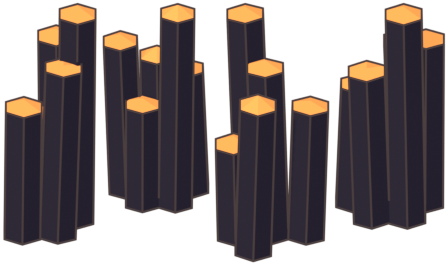
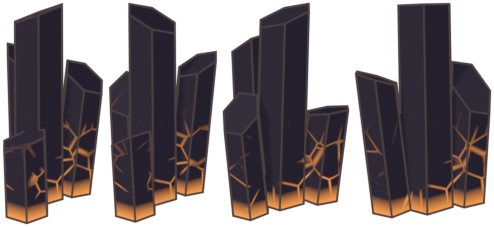
feat(obstacles): obsidian lava cracks and void rune monoliths
OBSIDIAN_PILLAR: only the top caps were orange, so the glow overlay (which
keys orange pixels) pulsed on the caps and was barely visible. Re-rendered as
3-4 thick basalt columns with slanted broken tops; a procedural Voronoi crack
mask (object space) glows lava orange on the lower part plus a molten band at
the base, upper columns stay clean obsidian.

WALL (VOID map): the dungeon pillar/column/statue/obelisk masonry did not fit
the floating cosmic island. Replaced with a rune plinth (glowing violet ring)
under a floating dark-violet crystal slab with 2-3 orbiting shards and violet
veins. Renamed to 虛空石碑.

Glow animation keys are now per type (OBSTACLE_SPRITE.GLOW_KEYS EMBER/VIOLET,
ANIM.*.key); WALL gets a violet glow pulse. Other obstacle atlases are byte
identical after repacking.

diff --git a/constants.ts b/constants.ts
@@ -828,22 +828,29 @@ export const OBSTACLE_SPRITE = {
    * 障礙物動態（VISUAL_ROADMAP O3）：烘成循環影格表，執行期仍只有一次 drawImage；每格相位依 q,r 雜湊錯開。
    *  - sway：以底部為軸斜切，頂端位移 amp（canvas 單位）
    *  - glint：一顆星芒沿最高晶柱往上滑，週期前 visible 比例可見（靜態本體＋星芒疊層，執行期只改位置與 alpha）
-   *  - glow：從精靈取出橘色發光部位（GLOW_KEY），加法疊上並帶模糊光暈，亮度 0..amp 脈動（靜態本體＋發光疊層）
+   *  - glow：從精靈取出發光部位（GLOW_KEYS[key]：熔岩橘／虛空紫），加法疊上並帶模糊光暈，亮度 0..amp 脈動（靜態本體＋發光疊層）
    *  只有 sway 烘成整張影格表；glint／glow 若也烘成影格表，熔岩圖 p99 實測多 3～5 ms（每根柱子各取一張大圖）。
    */
   ANIM: {
     TREE: { kind: 'sway', frames: 12, period: 4.5, amp: 3 },
     ICE_CRYSTAL: { kind: 'glint', frames: 16, period: 4, amp: 0.9, visible: 0.4, radius: 6 },
-    OBSIDIAN_PILLAR: { kind: 'glow', frames: 12, period: 3, amp: 0.75, blurPx: 3 },
+    OBSIDIAN_PILLAR: { kind: 'glow', frames: 12, period: 3, amp: 0.75, blurPx: 3, key: 'EMBER' },
+    WALL: { kind: 'glow', frames: 12, period: 4, amp: 0.7, blurPx: 3, key: 'VIOLET' },
   } as Readonly<Record<string, ObstacleAnimConfig>>,
-  /** glow 取色：r ≥ minR、b ≤ maxB、r ≥ g × ratio 的像素算發光部位 */
-  GLOW_KEY: { minR: 170, maxB: 120, ratio: 1.25 },
+  /**
+   * glow 取色：主通道（r 或 b）≥ min、主通道 ≥ g × ratio、另一個通道（b 或 r）≤ maxOther 的像素算發光部位。
+   * EMBER＝黑曜柱岩漿裂縫（render_obstacle.py OBSIDIAN_GLOW），VIOLET＝虛空石碑脈絡與符文環（VOID_GLOW）。
+   */
+  GLOW_KEYS: {
+    EMBER: { main: 'r', min: 170, ratio: 1.25, maxOther: 120 },
+    VIOLET: { main: 'b', min: 200, ratio: 1.3, maxOther: 255 },
+  } as Readonly<Record<'EMBER' | 'VIOLET', { main: 'r' | 'b'; min: number; ratio: number; maxOther: number }>>,
 } as const;
 
 export type ObstacleAnimConfig =
   | { kind: 'sway'; frames: number; period: number; amp: number }
   | { kind: 'glint'; frames: number; period: number; amp: number; visible: number; radius: number }
-  | { kind: 'glow'; frames: number; period: number; amp: number; blurPx: number };
+  | { kind: 'glow'; frames: number; period: number; amp: number; blurPx: number; key: 'EMBER' | 'VIOLET' };
 
 export interface TerrainTheme { top: string; sideLight: string; sideDark: string; detail: string; rim: string }
 

diff --git a/engine/renderers/grid/ObstacleSpriteStore.ts b/engine/renderers/grid/ObstacleSpriteStore.ts
@@ -184,7 +184,7 @@ class ObstacleSpriteStoreImpl {
         const s = OBSTACLE_SPRITE.BAKE_SCALE;
         const spriteH = v.ay * k;
         if (anim.kind === 'glow') {
-            const mask = extractGlowMask(img, v);
+            const mask = extractGlowMask(img, v, anim.key);
             const pad = anim.blurPx * 2;
             const w = v.w * k + pad * 2, h = v.h * k + pad * 2;
             const { canvas, ctx } = createCanvas(Math.ceil(w * s), Math.ceil(h * s));
@@ -255,7 +255,7 @@ interface ObstacleOverlaySet {
 }
 
 /** 從精靈取出橘色發光部位（黑曜柱頂）：其餘像素透明。只在烘焙時讀一次像素 */
-function extractGlowMask(img: HTMLImageElement, v: ObstacleVariantDef): HTMLCanvasElement | null {
+function extractGlowMask(img: HTMLImageElement, v: ObstacleVariantDef, key: 'EMBER' | 'VIOLET'): HTMLCanvasElement | null {
     const { canvas, ctx } = createCanvas(v.w, v.h);
     ctx.drawImage(img, v.x, v.y, v.w, v.h, 0, 0, v.w, v.h);
     let data: ImageData;
@@ -264,10 +264,13 @@ function extractGlowMask(img: HTMLImageElement, v: ObstacleVariantDef): HTMLCanv
     } catch {
         return null;
     }
-    const K = OBSTACLE_SPRITE.GLOW_KEY;
+    const K = OBSTACLE_SPRITE.GLOW_KEYS[key];
+    const mainOff = K.main === 'r' ? 0 : 2;
+    const otherOff = K.main === 'r' ? 2 : 0;
     const d = data.data;
     for (let i = 0; i < d.length; i += 4) {
-        const keep = d[i] >= K.minR && d[i + 2] <= K.maxB && d[i] >= d[i + 1] * K.ratio;
+        const m = d[i + mainOff];
+        const keep = m >= K.min && m >= d[i + 1] * K.ratio && d[i + otherOff] <= K.maxOther;
         if (!keep) d[i + 3] = 0;
     }
     ctx.putImageData(data, 0, 0);

diff --git a/data/obstacles.ts b/data/obstacles.ts
@@ -4,7 +4,7 @@ import { ObstacleDef } from "../types";
 export const OBSTACLE_DB: Record<string, ObstacleDef> = {
     'WALL': {
         id: 'WALL',
-        name: '石牆',
+        name: '虛空石碑',
         blocksMovement: true,
         blocksVision: true,
         blocksFlying: false // Flyers can pass

diff --git a/tools/assets/blender/render_obstacle.py b/tools/assets/blender/render_obstacle.py
@@ -37,11 +37,9 @@ TYPES = {
         {'file': f'{FOREST}/Tree_3_A_Color1.gltf', 'height': 140},
         {'file': f'{FOREST}/Tree_4_A_Color1.gltf', 'height': 112},
     ]},
-    'WALL': {'fit': 0.78, 'tint': (0.78, 0.82, 1.05), 'variants': [
-        {'file': f'{DUNGEON}/pillar.gltf.glb', 'height': 96, 'xy': 1.5},
-        {'file': f'{DUNGEON}/column.gltf.glb', 'height': 92},
-        {'file': f'{KENNEY}/statue_column.glb', 'height': 96, 'xy': 1.4, 'override': (0.33, 0.35, 0.47)},
-        {'file': f'{KENNEY}/statue_obelisk.glb', 'height': 108, 'xy': 1.2, 'override': (0.33, 0.35, 0.47)},
+    # 虛空石碑（2026-10-19 取代地牢石柱／方尖碑組：磚石造型與漂浮的宇宙島不搭）：符文基座＋懸浮晶碑＋環繞碎晶
+    'WALL': {'fit': 0.80, 'variants': [
+        {'prisms': 'void_monolith', 'seed': s, 'height': h} for s, h in ((31, 104), (32, 96), (33, 112), (34, 100))
     ]},
     'SANDSTONE': {'fit': 0.86, 'override': (0.86, 0.60, 0.36), 'variants': [
         {'file': f'{KENNEY}/rock_tallA.glb', 'height': 72},
@@ -52,7 +50,8 @@ TYPES = {
     'ICE_CRYSTAL': {'fit': 0.80, 'variants': [
         {'prisms': 'ice', 'seed': s, 'height': h} for s, h in ((1, 72), (2, 64), (3, 80), (4, 60))
     ]},
-    'OBSIDIAN_PILLAR': {'fit': 0.76, 'variants': [
+    # 黑曜柱（2026-10-19 重新設計：3～4 根粗柱、斜切斷頂，側面岩漿裂縫＋底部熔岩光帶；舊版只有頂面橘色、發光看不出來）
+    'OBSIDIAN_PILLAR': {'fit': 0.78, 'variants': [
         {'prisms': 'obsidian', 'seed': s, 'height': h} for s, h in ((11, 108), (12, 96), (13, 116), (14, 100))
     ]},
     # 不阻擋的地表裝飾（VISUAL_ROADMAP T2）：小尺寸、細描邊；TerrainLoopAtlas／bakeBlock 依格子雜湊擺放
@@ -84,7 +83,9 @@ TYPES = {
 ICE_RGB = (0.62, 0.86, 1.0)
 ICE_GLOW = (0.55, 0.85, 1.0)
 OBSIDIAN_RGB = (0.035, 0.028, 0.045)  # linear; Standard view transform lifts it to ~#2a2430
-OBSIDIAN_GLOW = (1.0, 0.36, 0.08)
+OBSIDIAN_GLOW = (1.0, 0.36, 0.08)     # sRGB ~ (255,161,79): engine OBSTACLE_SPRITE.GLOW_KEYS.EMBER picks it up
+VOID_RGB = (0.055, 0.04, 0.095)
+VOID_GLOW = (0.5, 0.28, 1.0)          # sRGB ~ (188,145,255): GLOW_KEYS.VIOLET
 
 
 def reset():
@@ -177,6 +178,101 @@ def hex_prism(bm, x, y, r, h, tip, tilt_x, tilt_y, yaw):
     bmesh.ops.transform(bm, matrix=m, verts=allv)
 
 
+def basalt_column(bm, x, y, r, h, slant, slant_dir, tilt_x, tilt_y, z0=0.0, tip=0.0, squash=1.0):
+    """Hex column, base at z0. slant tilts the flat top cap (broken basalt); tip > 0 turns the top into a point instead."""
+    geom = bmesh.ops.create_cone(bm, cap_ends=True, segments=6, radius1=r, radius2=r, depth=h)
+    verts = geom['verts']
+    bmesh.ops.translate(bm, verts=verts, vec=(0, 0, h / 2))
+    top = [v for v in verts if v.co.z > h * 0.99]
+    allv = list(verts)
+    if tip > 0:
+        centre = bm.verts.new((0, 0, h + tip))
+        faces = [f for f in bm.faces if all(v in top for v in f.verts)]
+        ring = sorted(top, key=lambda v: math.atan2(v.co.y, v.co.x))
+        bmesh.ops.delete(bm, geom=faces, context='FACES_ONLY')
+        for i in range(len(ring)):
+            bm.faces.new((ring[i], ring[(i + 1) % len(ring)], centre))
+        allv.append(centre)
+    else:
+        dx, dy = math.cos(slant_dir), math.sin(slant_dir)
+        for v in top:
+            v.co.z += (v.co.x * dx + v.co.y * dy) / max(r, 1e-6) * slant
+    for v in allv:
+        v.co.x *= squash
+    from mathutils import Matrix
+    m = Matrix.Translation((x, y, z0)) @ Matrix.Rotation(tilt_x, 4, 'X') @ Matrix.Rotation(tilt_y, 4, 'Y')
+    bmesh.ops.transform(bm, matrix=m, verts=allv)
+
+
+def glow_mask_material(mat, base_rgb, glow_rgb, kind):
+    """toon() body, then mix in glow_rgb where a procedural mask (object space) is 1: lava cracks / void veins."""
+    toon(mat, base_rgb=base_rgb)
+    nt = mat.node_tree
+    emit = next(n for n in nt.nodes if n.type == 'EMISSION')
+    link = emit.inputs['Color'].links[0]
+    color = link.from_socket
+    nt.links.remove(link)
+
+    def node(t, **kw):
+        n = nt.nodes.new(t)
+        for k, v in kw.items():
+            setattr(n, k, v)
+        return n
+
+    def map_range(src, a, b, c, d):
+        m = node('ShaderNodeMapRange', clamp=True)
+        nt.links.new(src, m.inputs['Value'])
+        m.inputs['From Min'].default_value, m.inputs['From Max'].default_value = a, b
+        m.inputs['To Min'].default_value, m.inputs['To Max'].default_value = c, d
+        return m.outputs['Result']
+
+    def math_op(op, x, y):
+        m = node('ShaderNodeMath', operation=op)
+        nt.links.new(x, m.inputs[0])
+        nt.links.new(y, m.inputs[1])
+        return m.outputs['Value']
+
+    tc = node('ShaderNodeTexCoord')
+    sep = node('ShaderNodeSeparateXYZ')
+    nt.links.new(tc.outputs['Object'], sep.inputs['Vector'])
+    vor = node('ShaderNodeTexVoronoi', voronoi_dimensions='3D', feature='DISTANCE_TO_EDGE')
+    nt.links.new(tc.outputs['Object'], vor.inputs['Vector'])
+    noise = node('ShaderNodeTexNoise')
+    nt.links.new(tc.outputs['Object'], noise.inputs['Vector'])
+    if kind == 'obsidian':
+        vor.inputs['Scale'].default_value = 3.0
+        noise.inputs['Scale'].default_value = 1.6
+        crack = map_range(vor.outputs['Distance'], 0.0, 0.045, 1.0, 0.0)
+        patch = map_range(noise.outputs['Fac'], 0.45, 0.55, 0.0, 1.0)
+        fall = map_range(sep.outputs['Z'], 0.25, 1.1, 1.0, 0.0)   # cracks only in the lower part; upper column stays clean
+        veins = math_op('MULTIPLY', math_op('MULTIPLY', crack, patch), fall)
+        band = map_range(sep.outputs['Z'], 0.0, 0.2, 1.0, 0.0)
+        mask = math_op('MAXIMUM', veins, band)
+    else:
+        vor.inputs['Scale'].default_value = 4.5
+        noise.inputs['Scale'].default_value = 2.2
+        crack = map_range(vor.outputs['Distance'], 0.0, 0.03, 1.0, 0.0)
+        patch = map_range(noise.outputs['Fac'], 0.52, 0.6, 0.0, 1.0)
+        above = map_range(sep.outputs['Z'], 0.1, 0.14, 0.0, 1.0)   # veins only on the floating crystals
+        veins = math_op('MULTIPLY', math_op('MULTIPLY', crack, patch), above)
+        comb = node('ShaderNodeCombineXYZ')
+        nt.links.new(sep.outputs['X'], comb.inputs['X'])
+        nt.links.new(sep.outputs['Y'], comb.inputs['Y'])
+        ln = node('ShaderNodeVectorMath', operation='LENGTH')
+        nt.links.new(comb.outputs['Vector'], ln.inputs[0])
+        d = ln.outputs['Value']
+        ring = math_op('MULTIPLY', map_range(d, 0.28, 0.31, 0.0, 1.0), map_range(d, 0.35, 0.38, 1.0, 0.0))
+        on_plinth_top = math_op('MULTIPLY', map_range(sep.outputs['Z'], 0.05, 0.07, 0.0, 1.0), map_range(sep.outputs['Z'], 0.09, 0.11, 1.0, 0.0))
+        mask = math_op('MAXIMUM', veins, math_op('MULTIPLY', ring, on_plinth_top))
+    mix = nt.nodes.new('ShaderNodeMix')
+    mix.data_type = 'RGBA'
+    mix.blend_type = 'MIX'
+    nt.links.new(mask, mix.inputs['Factor'])
+    nt.links.new(color, mix.inputs['A'])
+    mix.inputs['B'].default_value = (*glow_rgb, 1)
+    nt.links.new(mix.outputs['Result'], emit.inputs['Color'])
+
+
 def build_prisms(kind, seed):
     rnd = random.Random(seed)
     mesh = bpy.data.meshes.new(f'{kind}_{seed}')
@@ -196,13 +292,28 @@ def build_prisms(kind, seed):
             d = 0 if i == 0 else rnd.uniform(0.25, 0.45)
             hex_prism(bm, math.cos(a) * d, math.sin(a) * d, rnd.uniform(0.12, 0.2), rnd.uniform(0.5, 1.0), rnd.uniform(0.18, 0.3),
                       math.sin(a) * rnd.uniform(0.2, 0.6) * -1, math.cos(a) * rnd.uniform(0.2, 0.6), rnd.random())
+    elif kind == 'void_monolith':
+        # rune plinth on the ground + one floating crystal slab + 2..3 orbiting shards
+        basalt_column(bm, 0, 0, 0.5, 0.08, 0, 0, 0, 0)
+        gap = rnd.uniform(0.36, 0.44)
+        hgt = rnd.uniform(1.25, 1.55)
+        basalt_column(bm, 0, 0, rnd.uniform(0.2, 0.24), hgt, 0, 0, rnd.uniform(-0.06, 0.06), rnd.uniform(-0.06, 0.06),
+                      z0=0.08 + gap, tip=rnd.uniform(0.3, 0.42), squash=0.78)
+        for i in range(rnd.randint(2, 3)):
+            a = i / 3 * math.tau + rnd.uniform(-0.5, 0.5)
+            d = rnd.uniform(0.36, 0.44)
+            basalt_column(bm, math.cos(a) * d, math.sin(a) * d, rnd.uniform(0.05, 0.08), rnd.uniform(0.16, 0.26), 0, 0,
+                          rnd.uniform(-0.7, 0.7), rnd.uniform(-0.7, 0.7), z0=0.08 + gap + rnd.uniform(0.2, hgt * 0.8), tip=0.08)
     else:
-        # basalt column group: 5..7 upright hex columns of stepped heights, flat-ish tops
-        cols = [(0, 0)] + [(math.cos(i / 6 * math.tau) * 0.36, math.sin(i / 6 * math.tau) * 0.36) for i in range(6)]
-        rnd.shuffle(cols)
-        for i, (x, y) in enumerate(cols[:rnd.randint(5, 7)]):
-            h = (2.4 if i == 0 else rnd.uniform(1.0, 2.1))
-            hex_prism(bm, x, y, 0.21, h, rnd.uniform(0.02, 0.12), rnd.uniform(-0.04, 0.04), rnd.uniform(-0.04, 0.04), 0)
+        # obsidian: 3..4 thick basalt columns, slanted broken tops, slight outward lean
+        n = rnd.randint(3, 4)
+        basalt_column(bm, 0, 0, 0.3, 2.3, rnd.uniform(0.12, 0.22), rnd.random() * math.tau, rnd.uniform(-0.03, 0.03), rnd.uniform(-0.03, 0.03))
+        for i in range(n - 1):
+            a = i / (n - 1) * math.tau + rnd.uniform(-0.4, 0.4)
+            d = rnd.uniform(0.36, 0.44)
+            lean = rnd.uniform(0.05, 0.12)
+            basalt_column(bm, math.cos(a) * d, math.sin(a) * d, rnd.uniform(0.2, 0.27), rnd.uniform(0.9, 1.7),
+                          rnd.uniform(0.1, 0.25), rnd.random() * math.tau, -math.sin(a) * lean, math.cos(a) * lean)
     bm.normal_update()
     bm.to_mesh(mesh)
     bm.free()
@@ -298,20 +409,12 @@ def render_variant(type_id, cfg, idx, v):
         mat = bpy.data.materials.new(kind)
         if kind in ('ice', 'ice_shards'):
             toon(mat, base_rgb=ICE_RGB, emission=ICE_GLOW, emission_strength=0.18)
+        elif kind == 'void_monolith':
+            glow_mask_material(mat, VOID_RGB, VOID_GLOW, 'void')
         else:
-            toon(mat, base_rgb=OBSIDIAN_RGB)
+            glow_mask_material(mat, OBSIDIAN_RGB, OBSIDIAN_GLOW, 'obsidian')
         for o in objs:
             o.data.materials.append(mat)
-        if kind == 'obsidian':
-            # glowing crack band near the base of each column (magma light)
-            glow = bpy.data.materials.new('obsidian_glow')
-            toon(glow, base_rgb=OBSIDIAN_GLOW, emission=OBSIDIAN_GLOW, emission_strength=0.6)
-            for o in objs:
-                o.data.materials.append(glow)
-                for p in o.data.polygons:
-                    zs = [o.data.vertices[i].co.z for i in p.vertices]
-                    if p.normal.z > 0.5 and max(zs) > 0.5:
-                        p.material_index = 1
     else:
         objs = import_model(v['file'])
         for o in objs:
